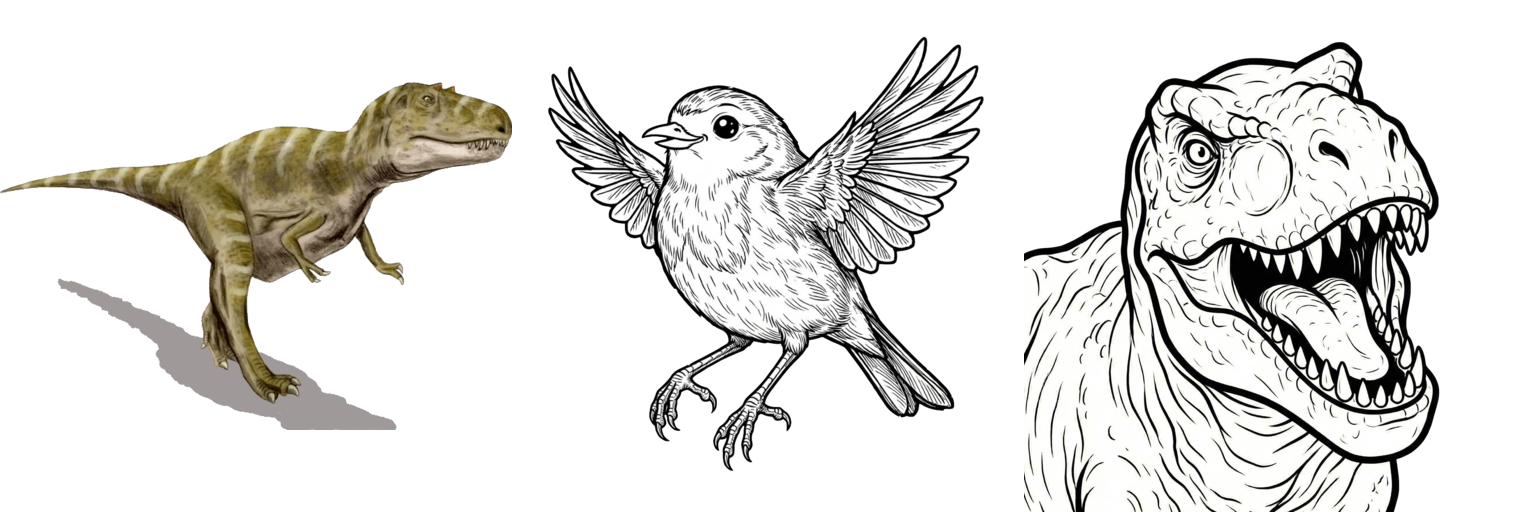
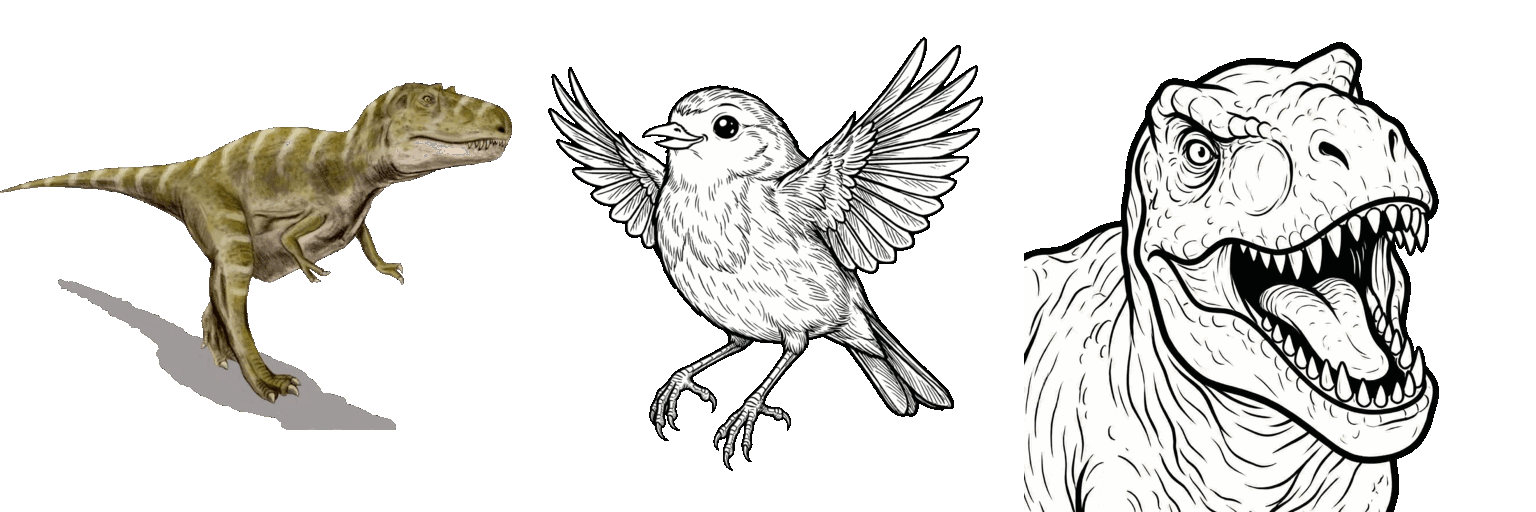
Update style of profile page buttons, fixed errors with page ordering.

Changed region(s): [[0.9062, 0.4688, 0.9375, 0.5], [0.2812, 0.2812, 0.3125, 0.3125], [0.0, 0.3438, 0.0312, 0.375]]

diff --git a/frontend/components/auth/profile-form.tsx b/frontend/components/auth/profile-form.tsx
@@ -78,9 +78,10 @@ export function ProfileForm({
   const [error, setError] = useState<string | null>(null);
   const [isSaving, setIsSaving] = useState(false);
   const [headerGradient, setHeaderGradient] = useState<string>(
-    "linear-gradient(135deg, hsl(355 70% 35% / 0.45), hsl(355 70% 55% / 0.65), hsl(355 70% 60% / 0.55), hsl(355 70% 55% / 0.65), hsl(355 70% 35% / 0.45))"
+    "linear-gradient(135deg, hsl(0 0% 30% / 0.45), hsl(0 0% 45% / 0.65), hsl(0 0% 50% / 0.55), hsl(0 0% 45% / 0.65), hsl(0 0% 30% / 0.45))"
   );
   const [isAvatarPickerOpen, setIsAvatarPickerOpen] = useState(false);
+  const [modeAnnouncement, setModeAnnouncement] = useState<string>("");
 
   const supabase = useMemo(() => createClient(), []);
   const { user: currentUser, isLoading: isUserLoading, refreshUser } =
@@ -230,6 +231,7 @@ export function ProfileForm({
       setFormData(initialProfile);
     }
     setMode("view");
+    setModeAnnouncement("Edit mode cancelled. Viewing profile.");
     setError(null);
   };
 
@@ -343,12 +345,48 @@ export function ProfileForm({
   }
 
   return (
-      <Card {...props} className={cn("w-full max-w-4xl overflow-hidden shadow-lg", className)}>
+      <Card {...props} className={cn("w-full max-w-4xl shadow-lg relative", className)}>
+        {/* Desktop: Button in top right of gradient - positioned relative to Card */}
+        <div className="hidden md:flex absolute top-6 right-6 z-50">
+          {mode === "view" ? (
+            <Button
+              type="button"
+              onClick={() => {
+                setMode("edit");
+                setModeAnnouncement("Edit mode activated. Form fields are now editable.");
+              }}
+              className="border border-black/30"
+            >
+              Edit profile
+            </Button>
+          ) : (
+            <div className="flex gap-3">
+              <Button
+                type="button"
+                variant="outline"
+                onClick={handleCancel}
+                disabled={isSaving}
+                className="bg-white text-black hover:bg-white/90 border-black/30"
+              >
+                Cancel
+              </Button>
+              <Button
+                type="submit"
+                form="profile-form"
+                disabled={isSaving || !hasChanges}
+                aria-busy={isSaving}
+              >
+                {isSaving ? "Saving…" : "Save"}
+              </Button>
+            </div>
+          )}
+        </div>
+
         <div
-          className="h-36 md:h-48 transition-colors duration-500"
+          className="h-36 md:h-48"
           style={{ background: headerGradient }}
         />
-        <CardHeader className="px-4 sm:px-6 pb-4 sm:pb-6 pt-0">
+        <CardHeader className="relative px-4 sm:px-6 pb-4 sm:pb-6 pt-0">
           {mode === "edit" ? (
             <AvatarTrigger
               profile={{
@@ -377,7 +415,7 @@ export function ProfileForm({
               />
             </div>
           )}
-          <div className="mt-4 flex flex-col gap-6 w-full md:flex-row md:items-center md:justify-between">
+          <div className="mt-4 flex flex-col gap-6 w-full">
             <div className="space-y-2 text-center md:text-left">
               <h1 className="text-3xl font-semibold">
                 {displayName}
@@ -391,20 +429,6 @@ export function ProfileForm({
                 </p>
               )}
             </div>
-            {mode === "view" ? (
-              <Button size="lg" onClick={() => setMode("edit")}>
-                Edit profile
-              </Button>
-            ) : (
-              <Button
-                type="button"
-                variant="outline"
-                onClick={handleCancel}
-                disabled={isSaving}
-              >
-                Cancel
-              </Button>
-            )}
           </div>
         </CardHeader>
         <CardContent className="space-y-6 sm:space-y-8 px-4 sm:px-6 pb-6 sm:pb-8">
@@ -438,7 +462,7 @@ export function ProfileForm({
               </div>
             </div>
           ) : (
-            <form className="space-y-4 sm:space-y-6" onSubmit={handleSubmit}>
+            <form id="profile-form" className="space-y-4 sm:space-y-6" onSubmit={handleSubmit}>
               <div className="grid gap-4 sm:gap-5 md:grid-cols-2">
                 <div className="grid gap-2">
                   <Label htmlFor="full_name">Full name (optional)</Label>
@@ -452,7 +476,7 @@ export function ProfileForm({
                       }))
                     }
                     disabled={isSaving}
-                    placeholder="Add the name you’d like people to see"
+                    placeholder="Add the name you'd like people to see"
                   />
                 </div>
                 <div className="grid gap-2">
@@ -491,14 +515,48 @@ export function ProfileForm({
               {error && (
                 <p className="text-sm text-error" role="alert" aria-live="polite">{error}</p>
               )}
-              <div className="flex flex-wrap gap-3">
-                <Button type="submit" size="lg" disabled={isSaving || !hasChanges} aria-busy={isSaving}>
-                  {isSaving ? "Saving…" : "Save changes"}
-                </Button>
-              </div>
             </form>
           )}
         </CardContent>
+
+        {/* Mobile: Edit/Save buttons above footer */}
+        <div className="md:hidden px-4 pb-4">
+          {mode === "view" ? (
+            <Button
+              size="lg"
+              onClick={() => {
+                setMode("edit");
+                setModeAnnouncement("Edit mode activated. Form fields are now editable.");
+              }}
+              className="w-full"
+            >
+              Edit profile
+            </Button>
+          ) : (
+            <div className="flex gap-3 w-full">
+              <Button
+                type="button"
+                variant="outline"
+                onClick={handleCancel}
+                disabled={isSaving}
+                className="flex-1 bg-white text-black hover:bg-white/90 border-black/30"
+              >
+                Cancel
+              </Button>
+              <Button
+                type="submit"
+                form="profile-form"
+                size="lg"
+                disabled={isSaving || !hasChanges}
+                aria-busy={isSaving}
+                className="flex-1"
+              >
+                {isSaving ? "Saving…" : "Save"}
+              </Button>
+            </div>
+          )}
+        </div>
+
         <CardFooter className="flex flex-col justify-between gap-4 border-t border-border bg-muted/30 px-4 sm:px-6 py-4 sm:py-5 sm:flex-row sm:items-center">
           <p className="text-sm text-muted-foreground">
             Need to switch accounts?
@@ -518,6 +576,11 @@ export function ProfileForm({
           onUploadSuccess={handleUploadSuccess}
           onRemove={handleAvatarRemove}
         />
+
+        {/* Screen reader announcements for mode changes */}
+        <div className="sr-only" role="status" aria-live="polite" aria-atomic="true">
+          {modeAnnouncement}
+        </div>
       </Card>
   );
 }

diff --git a/frontend/components/avatar/avatar-picker-modal.tsx b/frontend/components/avatar/avatar-picker-modal.tsx
@@ -780,7 +780,7 @@ export function AvatarPickerModal({
               type="button"
               variant="outline"
               onClick={() => setUploadPhase('idle')}
-              className={isMobile ? "min-h-[48px]" : ""}
+              className={cn("bg-white text-black hover:bg-white/90 border-black/30", isMobile && "min-h-[48px]")}
             >
               Cancel
             </Button>
@@ -958,7 +958,7 @@ export function AvatarPickerModal({
             type="button"
             onClick={handleCancel}
             disabled={isSavingPreset}
-            className="flex-1 py-2 px-4 rounded-md border border-input bg-background font-medium hover:bg-accent hover:text-accent-foreground disabled:opacity-50 disabled:cursor-not-allowed transition-colors"
+            className="flex-1 py-2 px-4 rounded-md border border-black/30 bg-white text-black font-medium hover:bg-white/90 disabled:opacity-50 disabled:cursor-not-allowed transition-colors"
           >
             Cancel
           </button>

diff --git a/frontend/components/avatar/avatar-trigger.tsx b/frontend/components/avatar/avatar-trigger.tsx
@@ -138,6 +138,7 @@ export function AvatarTrigger({
           onClick={handleClick}
           disabled={disabled}
           type="button"
+          className="bg-white text-black hover:bg-white/90 border-black/30"
         >
           {buttonText}
         </Button>
